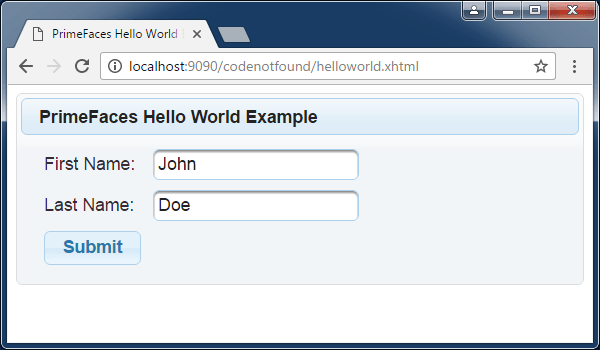
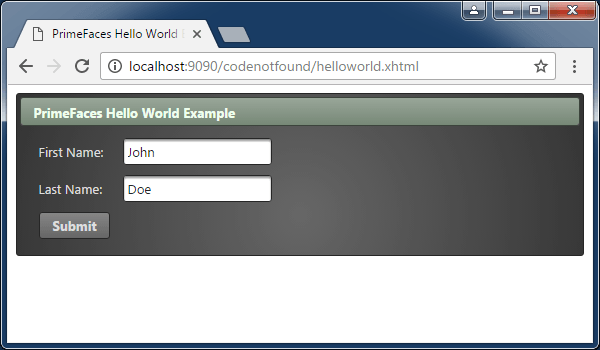
update post

diff --git a/_posts/jsf-primefaces/2018-01-03-jsf-primefaces-theme-spring-boot.md b/_posts/jsf-primefaces/2018-01-03-jsf-primefaces-theme-spring-boot.md
@@ -17,8 +17,8 @@ published: true
 
 [PrimeFaces](http://primefaces.org/){:target="_blank"} is integrated with the ThemeRoller CSS Framework in order to support different themes. There are three types of themes you can configure:
 
-1. You can [purchase premium themes](https://www.primefaces.org/themes/#tab-premium-645){:target="_blank"}
-2. You can choose from the [free community themes](https://www.primefaces.org/themes/#tab-community-678){:target="_blank"}
+1. You can [purchase premium themes](https://www.primefaces.org/themes/){:target="_blank"}
+2. You can choose from the [free community themes](https://www.primefaces.org/themes/){:target="_blank"}
 3. You can create your own theme using the online theme generator tool of [ThemeRoller](http://jqueryui.com/themeroller/){:target="_blank"}.
 
 The following example shows how to setup a PrimeFaces theme using Spring Boot and Maven.
@@ -104,19 +104,19 @@ We will start from a previous [JSF Spring Boot Example ]({{ site.url }}/jsf-prim
 
 As we are using [JoinFaces](https://github.com/joinfaces/joinfaces#joinfaces){:target="_blank"} to setup Spring Boot we can use an [application property](https://github.com/joinfaces/joinfaces#jsf-properties-configuration-via-applicationproperties-or-applicationyml){:target="_blank"} in order to configure a PrimeFaces theme.
 
-We set the <var>'Cupertino'</var> theme by specifying the <var>'jsf.primefaces.theme'</var> property in <var>src/main/resources/application.yml</var> as shown below.
+We set the <var>'Afterdark'</var> theme by specifying the <var>'jsf.primefaces.theme'</var> property in <var>src/main/resources/application.yml</var> as shown below.
 
 ``` yaml
 jsf:
   primefaces: 
-    theme: cupertino
+    theme: afterdark
 
 server:
   context-path: /codenotfound
   port: 9090
 ```
 
-Let's checkout our configured theme by running following Maven command:
+Let's checkout our web applicatiosn new look by running following Maven command:
 
 ``` plaintext
 mvn spring-boot:run
@@ -124,7 +124,7 @@ mvn spring-boot:run
 
 Once Spring Boot has started, open a web browser and enter the following URL: [http://localhost:9090/codenotfound/helloworld.xhtml](http://localhost:9090/codenotfound/helloworld.xhtml){:target="_blank"}.
 
-The below web page should now be displayed in the configured theme.
+The below web page should now be displayed in the newly configured theme.
 
 <figure>
   <img src="{{ site.url }}/assets/images/posts/jsf-primefaces/jsf-primefaces-theme-spring-boot.png" alt="jsf primefaces theme spring boot">
